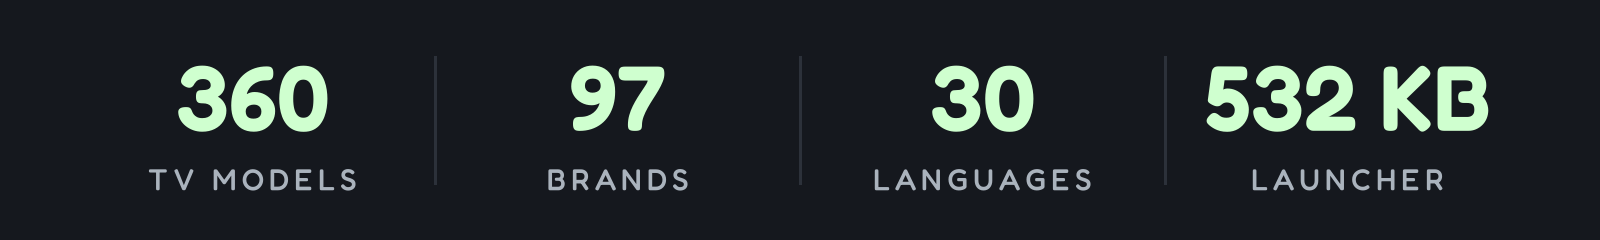
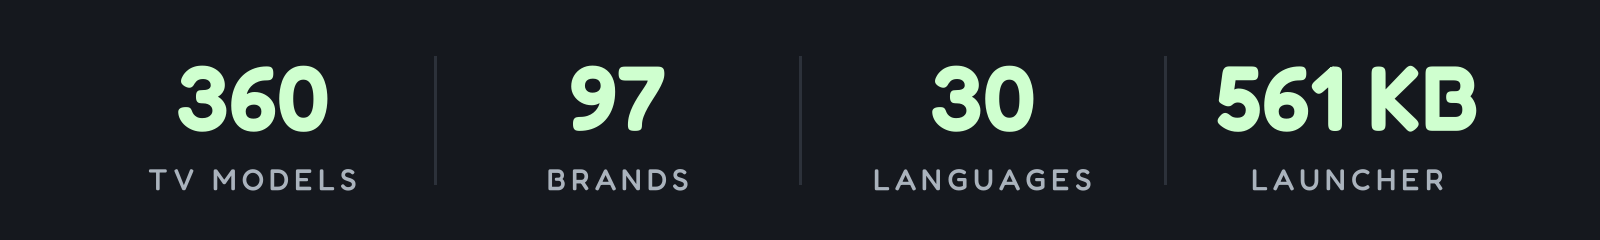
README: the launcher is about 561 KB (574,273 B release APK); card redrawn

Changed region(s): [[0.75, 0.2625, 0.9375, 0.5542]]

diff --git a/tests/test_translation_recipe_gate.py b/tests/test_translation_recipe_gate.py
@@ -5,7 +5,7 @@ in `values/strings.xml`, so a full language is by far the largest thing a transl
 adds to `launcher/app/src/main/res/` - and the release APK has a hard budget:
 `.github/workflows/ci.yml`'s `launcher` job, which runs on every pull request in `launcher/`, measures
 `launcher/app/build/outputs/apk/release/app-release.apk` and fails the build at 589,824 B. The launcher
-ships just under that (README.md quotes about 532 KB), and #1271 is a full Korean translation that did
+ships just under that (README.md quotes about 561 KB), and #1271 is a full Korean translation that did
 not fit. Until now the page said nothing about it, so a translator could follow the recipe exactly and
 land a red build at a step the page never mentions.
 

diff --git a/tools/readme_stats.py b/tools/readme_stats.py
@@ -67,7 +67,7 @@ try:
 except ImportError:
     sys.exit("readme_stats.py needs Pillow: tools/venv/bin/pip install -r tools/requirements-perf.txt")
 
-STATS = [("360", "TV MODELS"), ("97", "BRANDS"), ("30", "LANGUAGES"), ("532 KB", "LAUNCHER")]
+STATS = [("360", "TV MODELS"), ("97", "BRANDS"), ("30", "LANGUAGES"), ("561 KB", "LAUNCHER")]
 W, H = 1600, 240
 img = Image.new("RGB", (W, H), "#15181e"); d = ImageDraw.Draw(img)
 def f(size, wt):

diff --git a/README.nl.md b/README.nl.md
@@ -26,7 +26,7 @@
 </p>
 
 <p align="center">
-  <a href="docs/PRESS.md"><img src="docs/card.jpg" alt="360 tv-modellen · 97 merken · 30 talen · launcher van 532 KB. Genoemd in TechCrunch, TechRadar, Tom's Guide, Mashable, Android Authority, XDA, FlatpanelsHD, It's FOSS, Phandroid, GIGAZINE, Xataka, WinFuture, Frandroid, Macitynet, Techaeris, TechPP en nog 298 media: 314 artikelen uit 44 landen. Voorheen: het standaard Google TV-startscherm met een gesponsorde advertentie. Daarna: de Clean Your TV-launcher." width="800"></a>
+  <a href="docs/PRESS.md"><img src="docs/card.jpg" alt="360 tv-modellen · 97 merken · 30 talen · launcher van 561 KB. Genoemd in TechCrunch, TechRadar, Tom's Guide, Mashable, Android Authority, XDA, FlatpanelsHD, It's FOSS, Phandroid, GIGAZINE, Xataka, WinFuture, Frandroid, Macitynet, Techaeris, TechPP en nog 298 media: 314 artikelen uit 44 landen. Voorheen: het standaard Google TV-startscherm met een gesponsorde advertentie. Daarna: de Clean Your TV-launcher." width="800"></a>
 </p>
 
 **De virale tweet:** [x.com/gathint/status/2111379569030939102](https://x.com/gathint/status/2111379569030939102)
@@ -551,7 +551,7 @@ tools/theme.sh themes/aurora                                 # push a theme; --r
 | [`tools/flamechart.py`](tools/flamechart.py) | Maakt voor een pull request een flame chart vóór en na de wijziging op basis van die traces: één baan per thread op een gedeelde tijdschaal, met het werk waarop de wijziging zich richt in magenta en met de totale duur. Optioneel, net als de trace-hulpmiddelen. [Handleiding](tools/flamechart.md). |
 | [`tools/screendiff.py`](tools/screendiff.py) | Vergelijkt schermafbeeldingen van vóór en na pixel voor pixel, laat de klok en alles wat je maskeert buiten beschouwing en slaat beide afbeeldingen op met de wifi-naam vervaagd. Optioneel, net als de trace-hulpmiddelen. [Handleiding](tools/screendiff.md). |
 | [`tools/race_calendar.py`](tools/race_calendar.py) | Schrijft de F1-kalender van dit seizoen in een thema voor de raceweekendmodus, via de gratis Jolpica-API. |
-| [`launcher/build-and-install.sh`](launcher/build-and-install.sh) | Bouwt een verkleinde release (ongeveer 532 KB), installeert deze, schakelt het startscherm om en draait de wijziging terug als de nieuwe launcher niet het startscherm wordt. |
+| [`launcher/build-and-install.sh`](launcher/build-and-install.sh) | Bouwt een verkleinde release (ongeveer 561 KB), installeert deze, schakelt het startscherm om en draait de wijziging terug als de nieuwe launcher niet het startscherm wordt. |
 
 De scripts zorgen er altijd voor dat de tv een startscherm-app behoudt: ze schakelen alleen een herkende standaardlauncher uit en slaan die app in een lijst over totdat een andere launcher op HOME reageert. Zie hieronder voor meer informatie.
 
@@ -599,7 +599,7 @@ De controle kan niet bewijzen wat de bedoeling is. `appops` laat zien dat een be
 <a id="the-launcher"></a>
 ## De launcher
 
-Een klein, native startscherm voor Android TV: **ongeveer 532 KB**, geschreven in gewone Java en ontworpen voor tv's met 1 GB RAM. Geen vervagingseffecten, geen video, geen netwerktoestemming en geen achtergrondservices.
+Een klein, native startscherm voor Android TV: **ongeveer 561 KB**, geschreven in gewone Java en ontworpen voor tv's met 1 GB RAM. Geen vervagingseffecten, geen video, geen netwerktoestemming en geen achtergrondservices.
 
 De **tv** moet Android 8.0 (API 26) of nieuwer gebruiken. `minSdk` stelt de minimale versie in tijdens het bouwen in [`launcher/app/build.gradle`](launcher/app/build.gradle). Het installatiescript vraagt vóór het bouwen de waarde van `ro.build.version.sdk` op, zodat een oudere tv beide versienummers te zien krijgt in plaats van pas bij `pm install` te mislukken. Zie [Problemen oplossen](docs/TROUBLESHOOTING.md) voor wat op zo'n tv nog mogelijk is.
 

diff --git a/README.de.md b/README.de.md
@@ -20,7 +20,7 @@
 </p>
 
 <p align="center">
-  <a href="docs/PRESS.md"><img src="docs/card.jpg" alt="360 TV-Modelle · 97 Marken · 30 Sprachen · Launcher mit 532 KB. Erwähnt in TechCrunch, TechRadar, Tom's Guide, Mashable, Android Authority, XDA, FlatpanelsHD, It's FOSS, Phandroid, GIGAZINE, Xataka, WinFuture, Frandroid, Macitynet, Techaeris, TechPP und 298 weitere: 314 Artikel aus 44 Ländern. Vorher: der Google-TV-Startbildschirm mit einer bezahlten Anzeige. Nachher: der Clean-Your-TV-Launcher." width="800"></a>
+  <a href="docs/PRESS.md"><img src="docs/card.jpg" alt="360 TV-Modelle · 97 Marken · 30 Sprachen · Launcher mit 561 KB. Erwähnt in TechCrunch, TechRadar, Tom's Guide, Mashable, Android Authority, XDA, FlatpanelsHD, It's FOSS, Phandroid, GIGAZINE, Xataka, WinFuture, Frandroid, Macitynet, Techaeris, TechPP und 298 weitere: 314 Artikel aus 44 Ländern. Vorher: der Google-TV-Startbildschirm mit einer bezahlten Anzeige. Nachher: der Clean-Your-TV-Launcher." width="800"></a>
 </p>
 
 ## Einstieg
@@ -192,7 +192,7 @@ tools/theme.sh themes/aurora                                 # ein Theme aufspie
 | [`tools/flamechart.py`](tools/flamechart.py) | Zeichnet aus diesen Traces ein Vorher/Nachher-Flammendiagramm für einen Pull Request: eine Spur je Thread auf gemeinsamer Zeitachse, die Arbeit, die eine Änderung trifft, in Magenta mit ihrer Summe. Optional, wie die Trace-Werkzeuge. [Anleitung](tools/flamechart.md). |
 | [`tools/screendiff.py`](tools/screendiff.py) | Vergleicht ein Vorher- und ein Nachher-Bild Pixel für Pixel, lässt die Uhr oder das aus, was du maskierst, und schreibt das Paar mit unkenntlich gemachtem WLAN-Namen. Optional, wie die Trace-Werkzeuge. [Anleitung](tools/screendiff.md). |
 | [`tools/race_calendar.py`](tools/race_calendar.py) | Schreibt den F1-Kalender dieser Saison in ein Theme für den Rennwochenend-Modus, aus der freien Jolpica-API. |
-| [`launcher/build-and-install.sh`](launcher/build-and-install.sh) | Baut ein geschrumpftes Release (etwa 532 KB), installiert es, schaltet Home um und rollt zurück, wenn Home nicht darauf landet. |
+| [`launcher/build-and-install.sh`](launcher/build-and-install.sh) | Baut ein geschrumpftes Release (etwa 561 KB), installiert es, schaltet Home um und rollt zurück, wenn Home nicht darauf landet. |
 
 Die Skripte lassen den Fernseher nie ohne Home-App: sie deaktivieren nur einen Hersteller-Launcher, den sie erkennen,
 und überspringen die Home-App in einer Liste, bis ein anderer Launcher auf HOME antwortet. Eigene Listen können außerhalb
@@ -247,7 +247,7 @@ Debloat-Liste. Was die Prüfung nicht kann, ist Absicht beweisen: [docs/privacy.
 
 ## Der Launcher
 
-Ein kleiner nativer Startbildschirm für Android TV: **etwa 532 KB**, einfaches Java, gebaut für Fernseher mit 1 GB RAM.
+Ein kleiner nativer Startbildschirm für Android TV: **etwa 561 KB**, einfaches Java, gebaut für Fernseher mit 1 GB RAM.
 Kein Weichzeichnen, kein Video, keine Netzwerkberechtigung, keine Hintergrunddienste. Der **Fernseher** braucht Android 8.0 (API 26)
 oder neuer, das `minSdk` in [`launcher/app/build.gradle`](launcher/app/build.gradle); was auf einem älteren
 Gerät übrig bleibt, steht in der [Fehlerbehebung](docs/TROUBLESHOOTING.md).

diff --git a/README.md b/README.md
@@ -20,7 +20,7 @@
 </p>
 
 <p align="center">
-  <a href="docs/PRESS.md"><img src="docs/card.jpg" alt="360 TV models · 97 brands · 30 languages · 532 KB launcher. Featured in TechCrunch, TechRadar, Tom's Guide, Mashable, Android Authority, XDA, FlatpanelsHD, It's FOSS, Phandroid, GIGAZINE, Xataka, WinFuture, Frandroid, Macitynet, Techaeris, TechPP and 298 more: 314 articles from 44 countries. Before: stock Google TV home with a sponsored ad. After: the Clean Your TV launcher." width="800"></a>
+  <a href="docs/PRESS.md"><img src="docs/card.jpg" alt="360 TV models · 97 brands · 30 languages · 561 KB launcher. Featured in TechCrunch, TechRadar, Tom's Guide, Mashable, Android Authority, XDA, FlatpanelsHD, It's FOSS, Phandroid, GIGAZINE, Xataka, WinFuture, Frandroid, Macitynet, Techaeris, TechPP and 298 more: 314 articles from 44 countries. Before: stock Google TV home with a sponsored ad. After: the Clean Your TV launcher." width="800"></a>
 </p>
 
 ## Start here
@@ -201,7 +201,7 @@ tools/theme.sh themes/aurora                                 # push a theme; --r
 | [`tools/flamechart.py`](tools/flamechart.py) | Draws a before/after flame chart from those traces, for a pull request: one lane per thread on a shared time scale, the work a change targets in magenta with its total. Optional, like the trace tools. [Guide](tools/flamechart.md). |
 | [`tools/screendiff.py`](tools/screendiff.py) | Compares a before and an after screenshot pixel by pixel, leaving out the clock or anything you mask, and writes the pair with your Wi-Fi name blurred. Optional, like the trace tools. [Guide](tools/screendiff.md). |
 | [`tools/race_calendar.py`](tools/race_calendar.py) | Writes this season's F1 calendar into a theme for race-weekend mode, from the free Jolpica API. |
-| [`launcher/build-and-install.sh`](launcher/build-and-install.sh) | Builds a shrunk release (about 532 KB), installs it, switches Home, and rolls back if Home does not land on it. |
+| [`launcher/build-and-install.sh`](launcher/build-and-install.sh) | Builds a shrunk release (about 561 KB), installs it, switches Home, and rolls back if Home does not land on it. |
 
 The scripts never leave the TV without a Home app: they only disable a stock launcher they recognise,
 and skip the Home app in a list until another launcher answers HOME. Your own lists can live outside
@@ -264,7 +264,7 @@ debloat list. What the audit cannot do is prove intent: [docs/privacy.md](docs/p
 
 ## The launcher
 
-A small native home screen for Android TV: **about 532 KB**, plain Java, built for TVs with 1 GB of RAM.
+A small native home screen for Android TV: **about 561 KB**, plain Java, built for TVs with 1 GB of RAM.
 No blur, no video, no network permission, no background services. The **TV** needs Android 8.0 (API 26)
 or newer, the `minSdk` in [`launcher/app/build.gradle`](launcher/app/build.gradle); what is left on an older
 set is in [Troubleshooting](docs/TROUBLESHOOTING.md).

diff --git a/docs/workflows/translation.md b/docs/workflows/translation.md
@@ -32,7 +32,7 @@
 7. Check the size gate before you push. A language's strings ship in the release APK, and that APK has to
    stay under 589,824 B (576 KB): `launcher/app/build/outputs/apk/release/app-release.apk`, measured with
    `stat -c %s` on Linux or `stat -f %z` on macOS, and checked by the "Launcher build and unit tests" job
-   on every pull request. `README.md` quotes the launcher at about 532 KB, so a full language can be the
+   on every pull request. `README.md` quotes the launcher at about 561 KB, so a full language can be the
    difference between green and a failed build. A language that does not fit is a maintainer decision, not
    something to land by dropping strings ([#1271](https://github.com/Gathin23/cleanyourtv/issues/1271)).
 8. Build the launcher, set the TV's language (Android 13+: `tools/tv.py 'cmd locale set-app-locales com.gathin.tvhome --locales <tag>'`)

diff --git a/docs/launcher.md b/docs/launcher.md
@@ -2,7 +2,7 @@
 
 [Back to the README](../README.md#the-launcher)
 
-A small native home screen for Android TV: **about 532 KB**, plain Java, built for TVs with 1 GB of RAM.
+A small native home screen for Android TV: **about 561 KB**, plain Java, built for TVs with 1 GB of RAM.
 No blur, no video, no network permission, no background services. This page has the details the
 README leaves out: settings, languages, remote keys and building it yourself. Every key a theme can
 set is in [`themes/README.md`](../themes/README.md#keys), and the opt-in switches with their

diff --git a/.github/maintainer/MAINTAINER.md b/.github/maintainer/MAINTAINER.md
@@ -1,7 +1,7 @@
 # How CleanYourTV PRs are reviewed
 
 CleanYourTV (Gathin23/cleanyourtv) is a prompt plus tools that debloat Android TV / Google TV / Fire TV over
-ADB and a tiny native launcher (`launcher/`, plain Java, ~532 KB, for 1 GB TVs). Contributors mostly add
+ADB and a tiny native launcher (`launcher/`, plain Java, ~561 KB, for 1 GB TVs). Contributors mostly add
 tested TV lists under `examples/<tv>/`, translations, docs, small launcher options, themes, add-ons and tools.
 
 ## The policy: a small core plus a well-indexed hub
